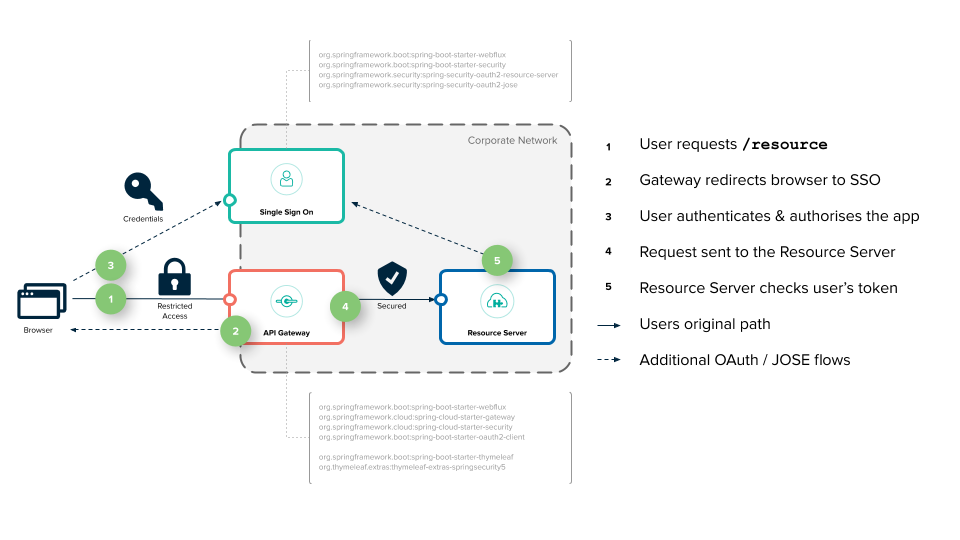
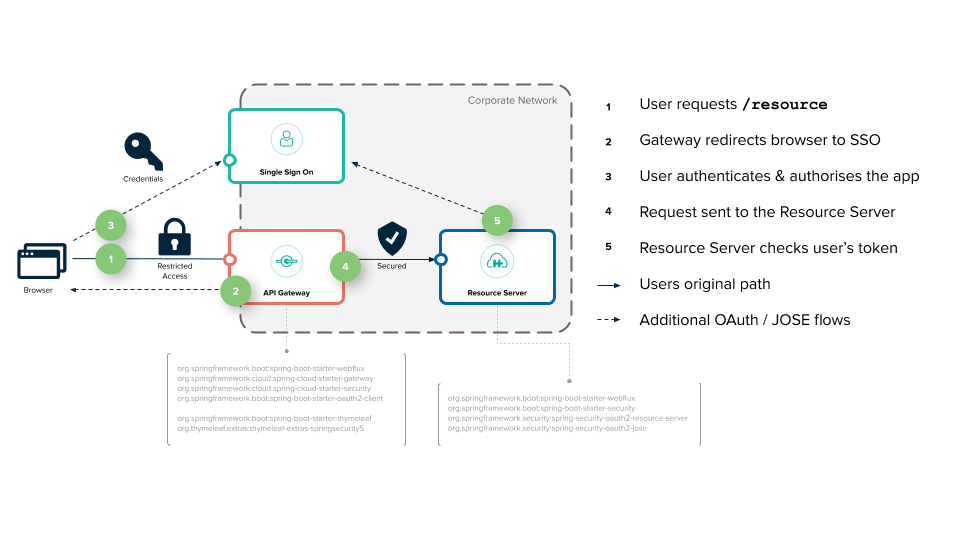
Updated the architecture diagram and removed the unnecessary @EnableWebFluxSecurity annotation from the Resource Server

diff --git a/security-gateway/secured-service/src/main/java/com/scg/service/SecurityConfig.java b/security-gateway/secured-service/src/main/java/com/scg/service/SecurityConfig.java
@@ -1,11 +1,9 @@
 package com.scg.service;
 
 import org.springframework.context.annotation.Bean;
-import org.springframework.security.config.annotation.web.reactive.EnableWebFluxSecurity;
 import org.springframework.security.config.web.server.ServerHttpSecurity;
 import org.springframework.security.web.server.SecurityWebFilterChain;
 
-@EnableWebFluxSecurity
 public class SecurityConfig {
 
   @Bean
